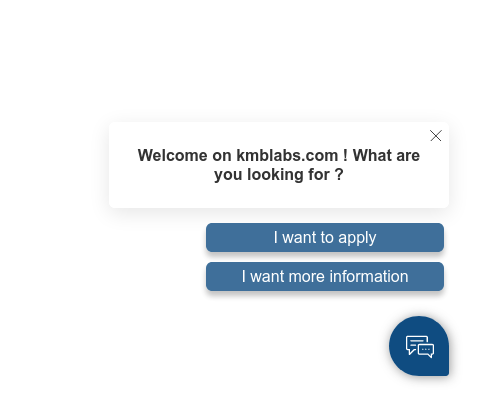
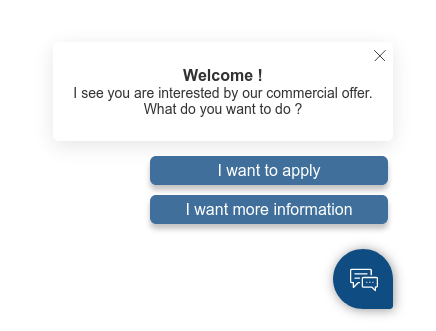
text fix, example pageCustomization changed

Changed region(s): [[0.1491, 0.2115, 0.9243, 0.9668], [0.8647, 0.3021, 0.8945, 0.3625], [0.8647, 0.1511, 0.8945, 0.1813]]

diff --git a/source/index.html.md b/source/index.html.md
@@ -968,8 +968,9 @@ These pictures show the result of the example configuration for the `background`
     {
       matchPath:"commercial",
       idGetter: "commercial/offer/(.*?)/infos",
-      bubbleText:"<b>Welcome on kmblabs.com !
-      What are you looking for ?</b>",
+      bubbleText:"<b>Welcome !</b><br/> I see you are
+      interested by our commercial offer. What
+      do you want to do ?",
       bubbleButtonColor:"#0f4c81",
       bubbleDelay: 1000,
       bubbleTimer: 20000,
